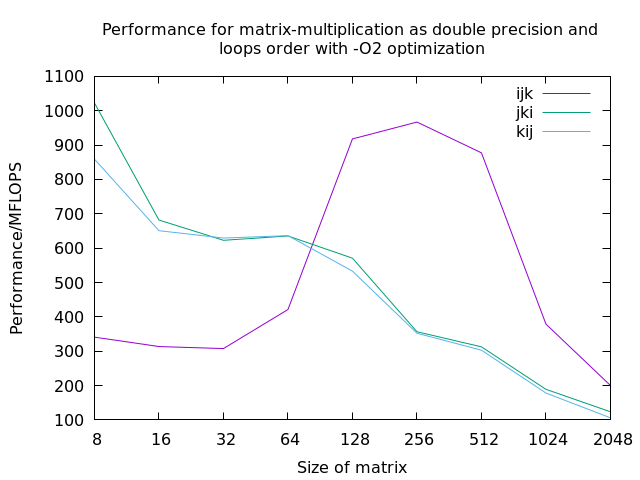
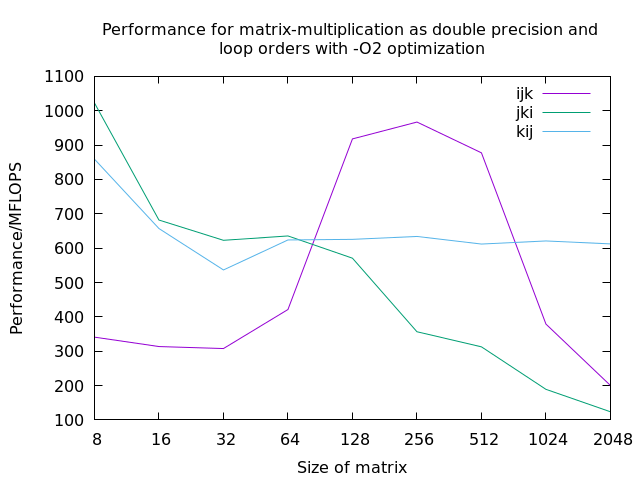
update

diff --git a/3/mxm2.c b/3/mxm2.c
@@ -201,7 +201,7 @@ void mat_mult_float(float *xf, float *yf, float *zf, int N, int c){
       for(k  = 0; k < N; k++){
         for(i = 0; i < N; i++){
           for(j = 0; j < N; j++){
-            MAT(zf,j,i) += MAT(xf,j,k) * MAT(yf,k,i);
+            MAT(zf,i,j) += MAT(xf,i,k) * MAT(yf,k,j);
           }
         }
       }
@@ -234,7 +234,7 @@ void mat_mult_double(double *xf, double *yf, double *zf, int N, int c){
       for(k  = 0; k < N; k++){
         for(i = 0; i < N; i++){
           for(j = 0; j < N; j++){
-            MAT(zf,j,i) += MAT(xf,j,k) * MAT(yf,k,i);
+            MAT(zf,i,j) += MAT(xf,i,k) * MAT(yf,k,j);
           }
         }
       }
